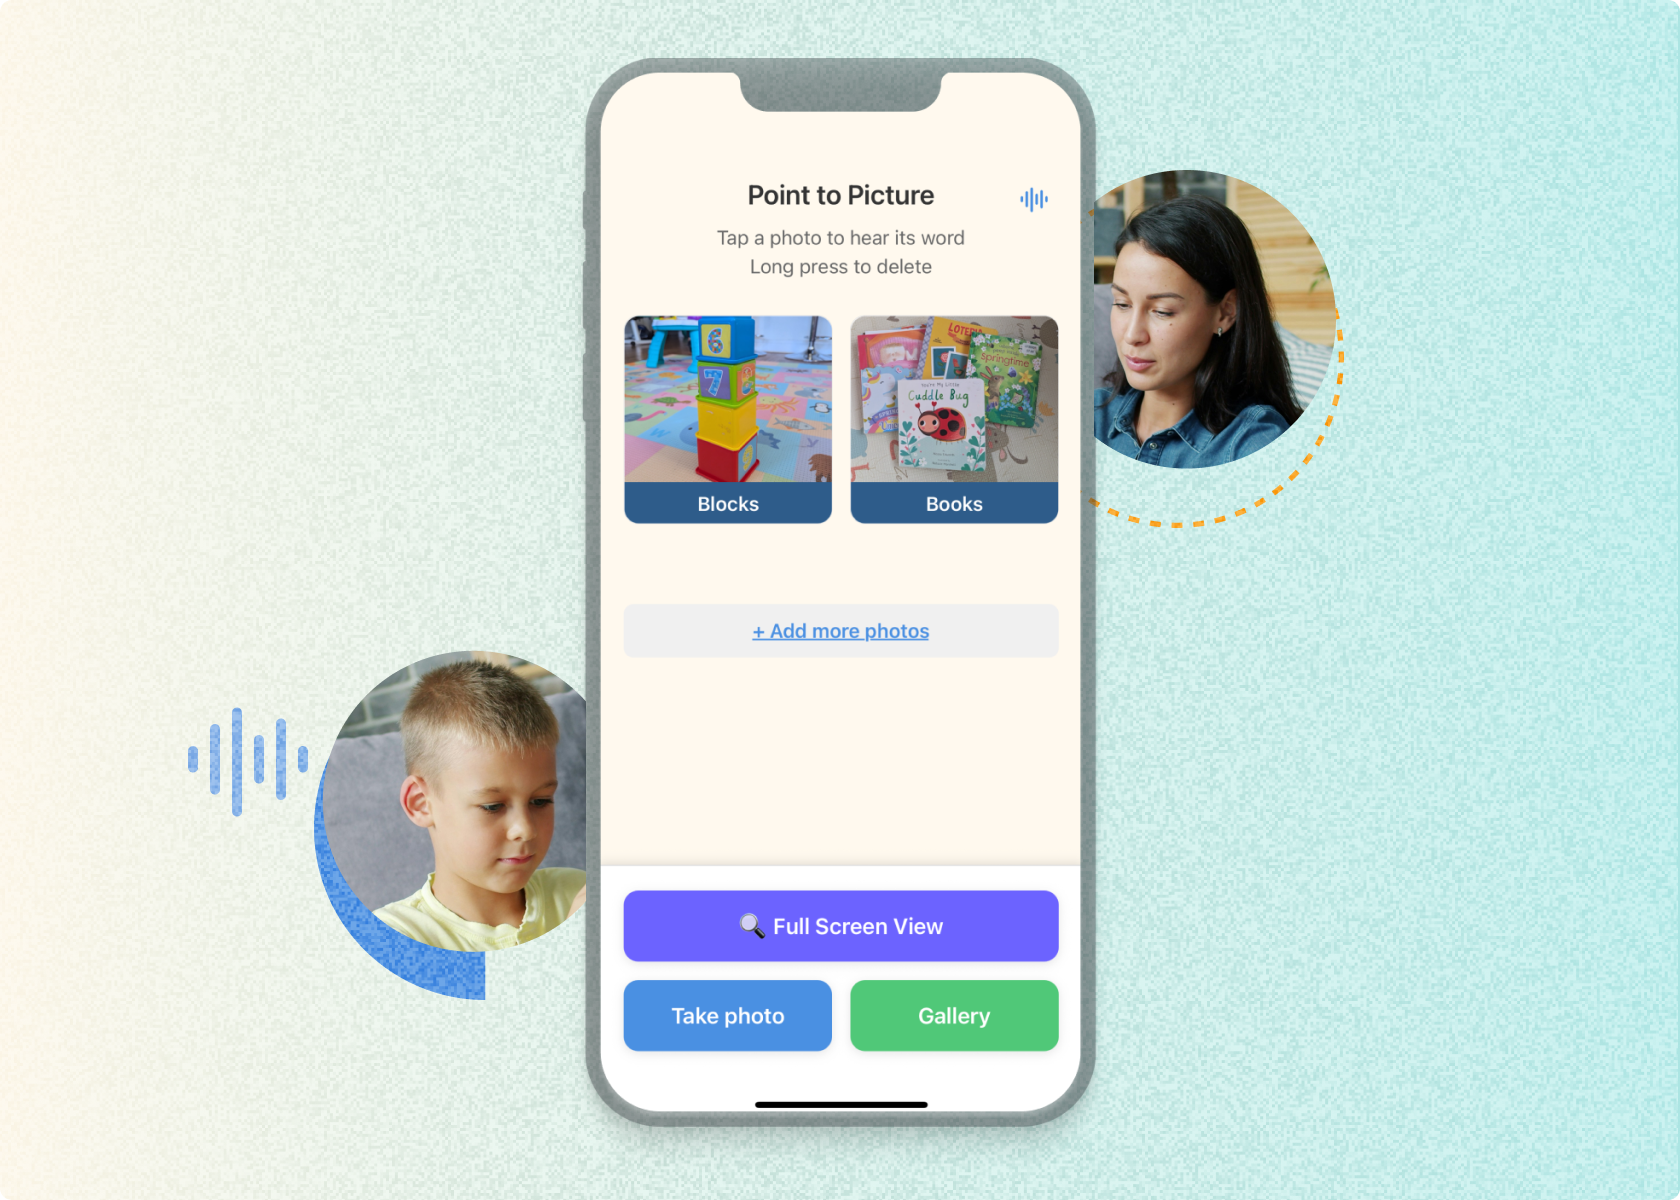
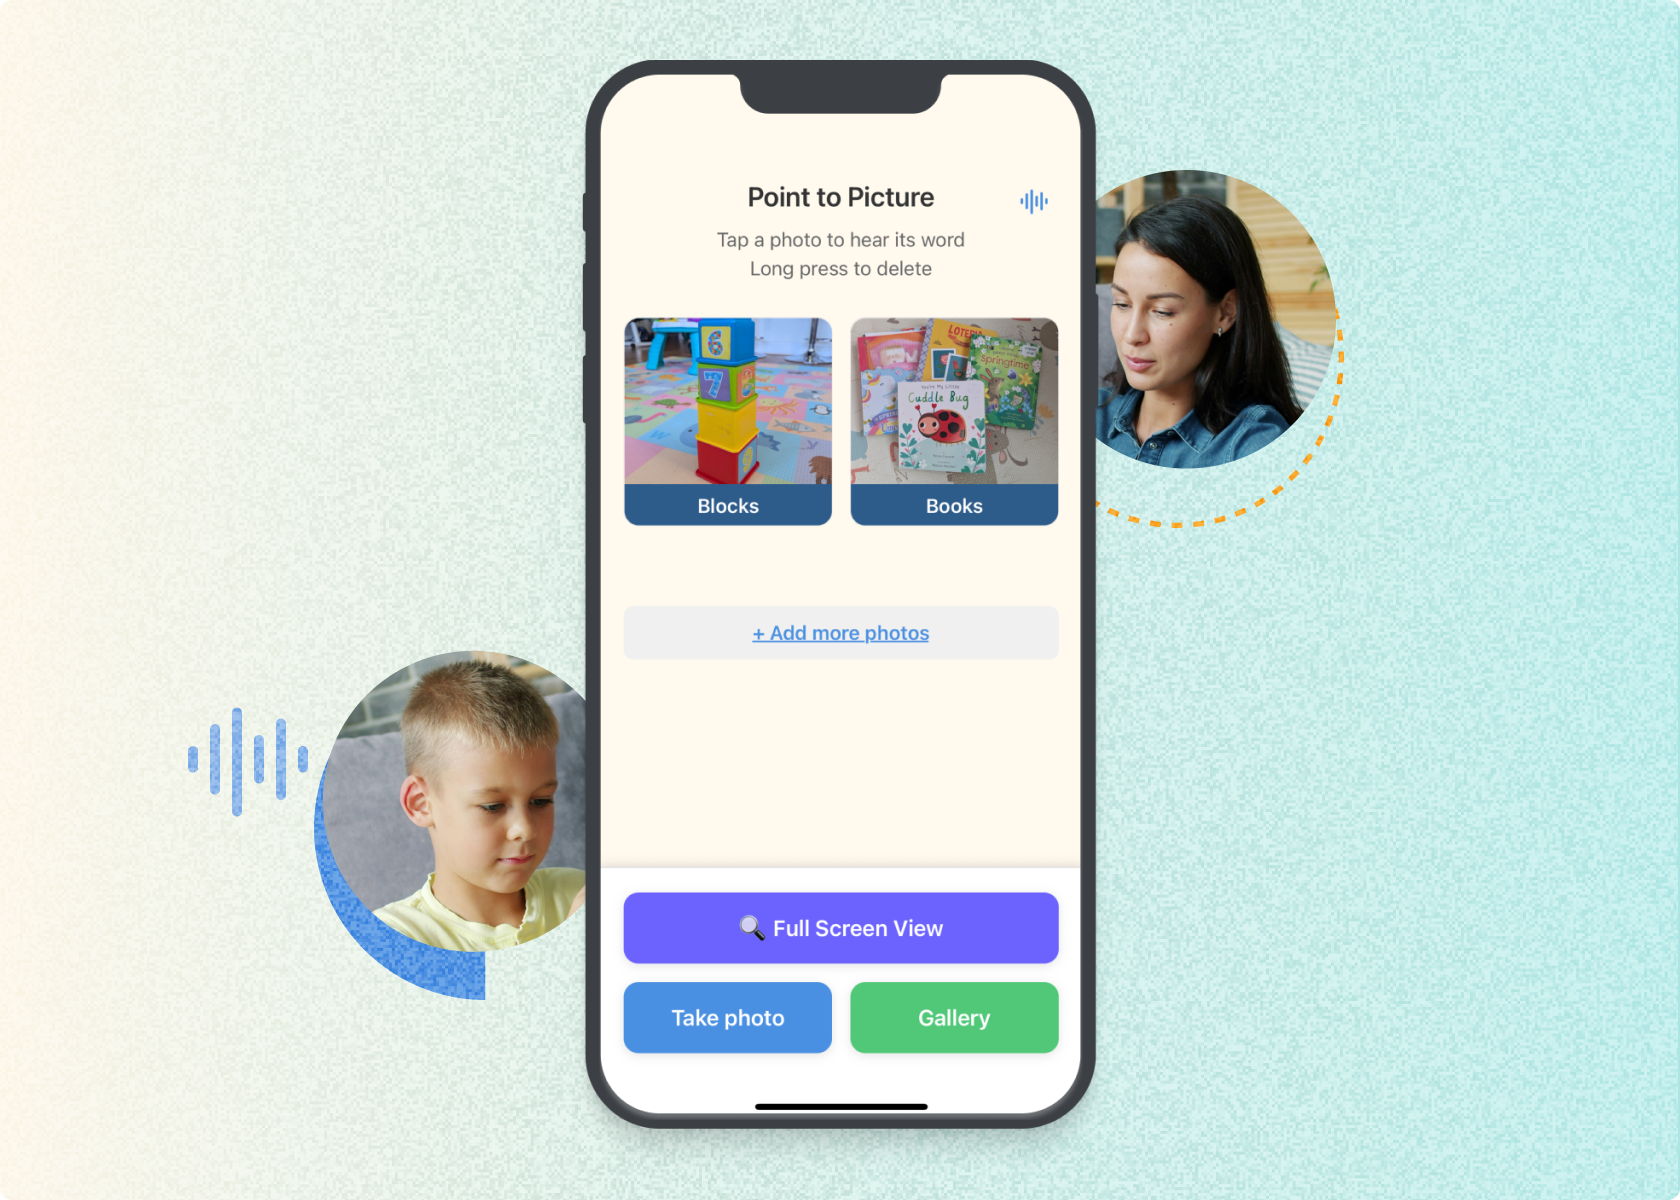
Update portfolio: PointToPictureScroll image and App styling

Changed region(s): [[0.3405, 0.0308, 0.681, 0.9558], [0.4333, 0.5242, 0.5571, 0.555]]

diff --git a/src/App.jsx b/src/App.jsx
@@ -199,7 +199,6 @@ function App() {
             <Carousel 
               height={332} 
               images={[
-                { src: '/imgs/PointToPictureScroll.png', alt: 'PointToPicture Scroll', tags: ['AAC App', 'Ed Tech'], description: 'A product design project showcasing innovative user experience solutions.' },
                 { src: '/imgs/ChasePayScroll.png', alt: 'ChasePay Scroll', tags: ['Fintech', 'Mobile App', 'E Commerce'], description: 'A mobile payment solution enabling seamless transactions for millions of users.' },
                 { src: '/imgs/CultivariumScroll.png', alt: 'Cultivarium Scroll', tags: ['AI Tools', 'Scientific Tools'], description: 'AI-powered scientific research tools to accelerate discovery and innovation.' },
                 { src: '/imgs/WeChatScroll.png', alt: 'WeChat Scroll', tags: ['AI Tools', 'Civic Tech', 'Chat Bot'], description: 'An intelligent chatbot helping citizens access government services and information.' },
@@ -207,7 +206,8 @@ function App() {
                 { src: '/imgs/NulabScroll.png', alt: 'Nulab Scroll', tags: ['Design Systems', 'SEO Optimization'], description: 'Comprehensive design system and SEO improvements for better user experience.' },
                 { src: '/imgs/MachineScroll.png', alt: 'Machine Scroll', tags: ['AI Tools', 'Digital Asset Management'], description: 'AI-driven platform for organizing and managing digital assets efficiently.' },
                 { src: '/imgs/CacooScroll.png', alt: 'Cacoo Scroll', tags: ['Workflow Tools', 'Design Systems'], description: 'Collaborative workflow tools with a cohesive design system.' },
-                { src: '/imgs/TekaloScroll.png', alt: 'Tekalo Scroll', tags: ['Branding', 'Social Impact'], description: 'Brand identity and digital presence for social impact organizations.', link: 'https://www.tekalo.org/' }
+                { src: '/imgs/TekaloScroll.png', alt: 'Tekalo Scroll', tags: ['Branding', 'Social Impact'], description: 'Brand identity and digital presence for social impact organizations.', link: 'https://www.tekalo.org/' },
+                { src: '/imgs/PointToPictureScroll.png', alt: 'PointToPicture Scroll', tags: ['AAC App', 'Ed Tech'], description: 'A product design project showcasing innovative user experience solutions.' }
               ]}
               numPlaceholders={4}
               onImageClick={setLightboxImage}

diff --git a/src/App.css b/src/App.css
@@ -1879,7 +1879,7 @@ body {
 }
 
 .carousel-image-wrapper:hover img {
-    transform: scale(1.02);
+    transform: scale(1.05);
 }
 
 .carousel-image-overlay {
